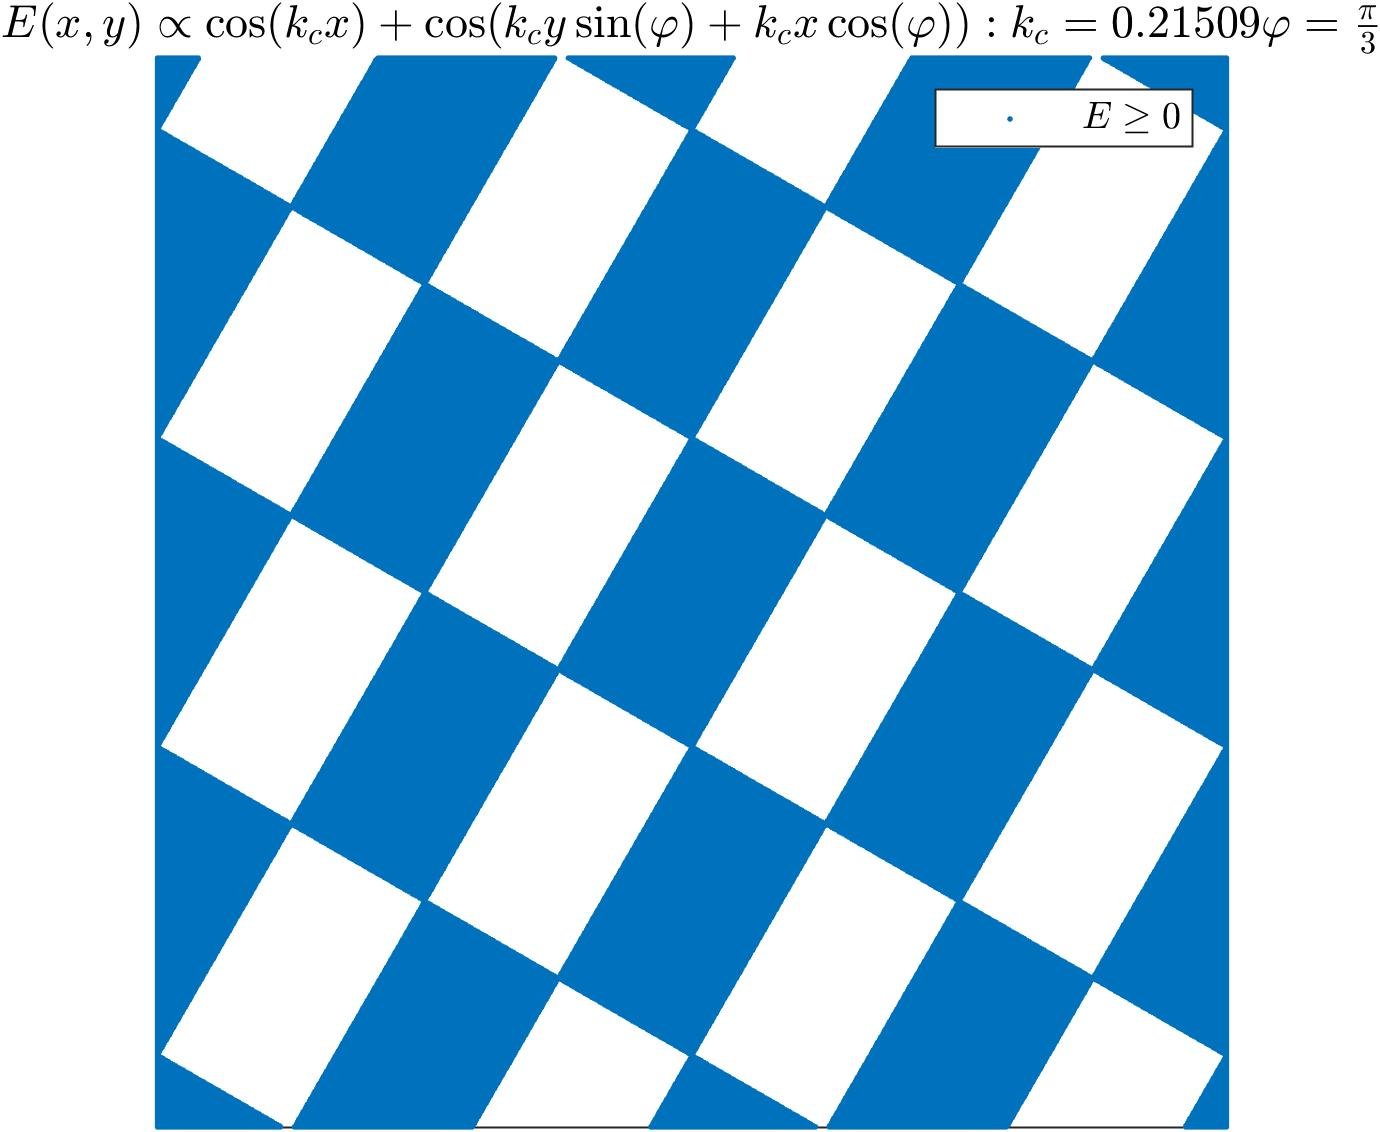
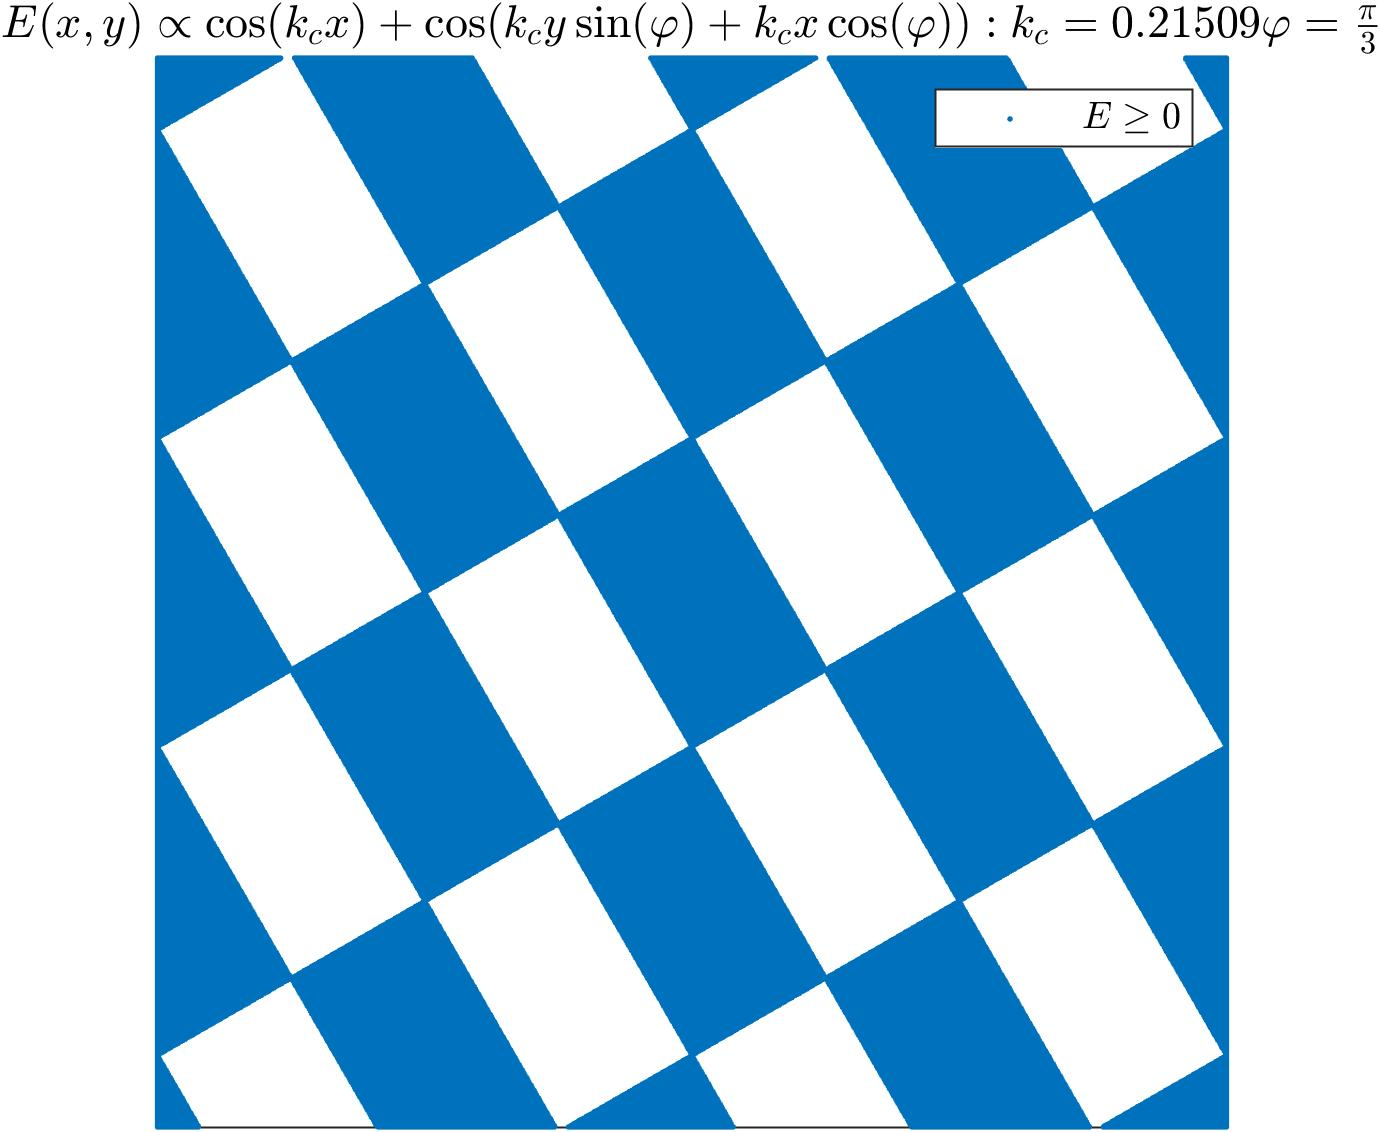
Add files via upload

Changed region(s): [[0.0935, 0.0309, 0.9036, 1.0], [0.7167, 0.0309, 0.8725, 0.0928], [0.8725, 0.371, 0.9036, 0.4019]]

diff --git a/3.hallucinations_2d_model/makeRhombuses.m b/3.hallucinations_2d_model/makeRhombuses.m
@@ -41,7 +41,7 @@ title(strcat('$E(x,y) \propto \cos(k_c x)+ \cos(k_c y  \sin(\varphi) + k_c x \co
 axis('equal');
 hold on
 Z_sp=(Z >= 0);
-spy(Z_sp);
+spy(fliplr(Z_sp));
 xlabel('');
 % cancellazione dei valori sugli assi
 set(gca,'XTick',[]);
